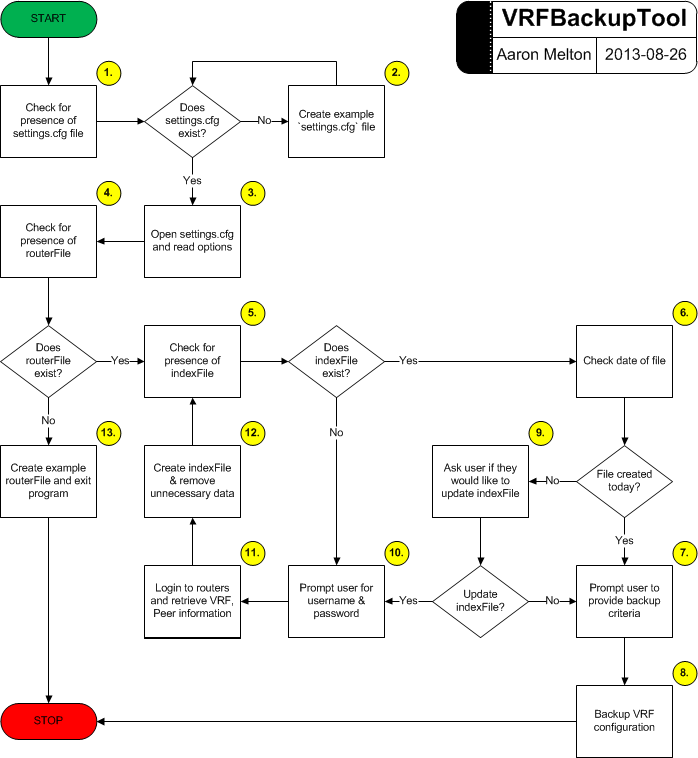
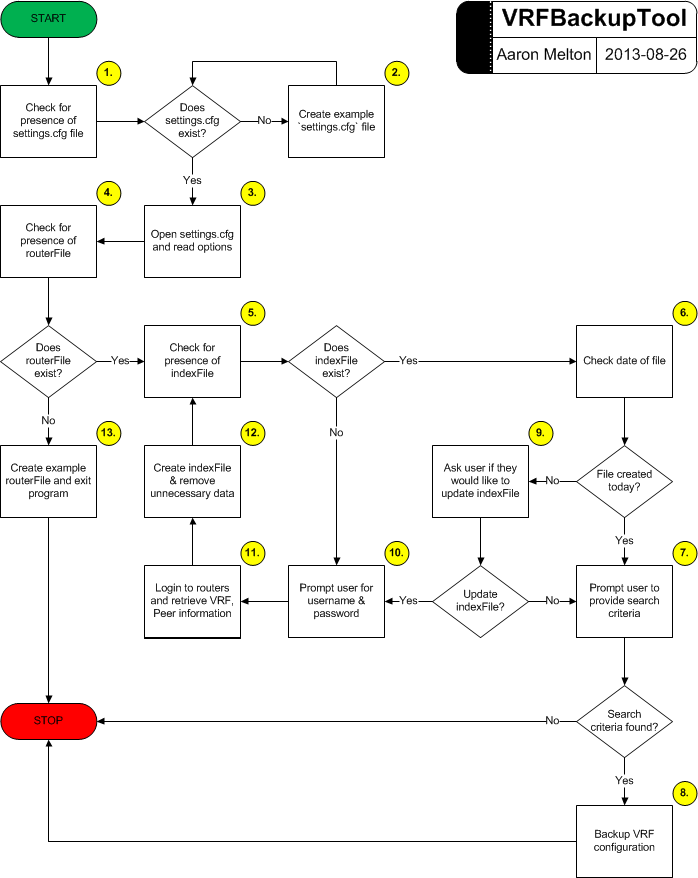
VRFBackupTool v0.0.5-alpha (2013-08-26)
## VRFBackupTool v0.0.5-alpha (2013-08-26) ##
* Created README.md, VRFBackupTool.png
* Updated code to remove unused modules and add additional comments.

diff --git a/README.md b/README.md
@@ -62,13 +62,20 @@ Exscript module [https://github.com/knipknap/exscript/](https://github.com/knipk
    the indexFile.
    * If the file was created today, the application will proceed to Step 7.
    * If the file was not created today, the application will proceed to Step 9.
-7. The application will ask the user to provide the backup criteria; Either
-   the VRF name or Peer IP Address of the VPN tunnel to locate.  Continue to
-   Step 8.
-8. The application will open the indexFile as read-only and search through the
-   file.  If any values are found, the application will log into each router
-   and back up the VRF configuration for each value found.  The application 
-   will then close the indexFile and exit (END).
+7. The application will ask the user to provide the search criteria; Either
+   the VRF name or Peer IP Address of the VPN tunnel to locate.  The application 
+   will open the indexFile as read-only and search through the file.
+   * If the search criteria was not found, exit program (END)
+   * If the search criteria was found, continue to Step 8.
+8. The application will ask the user for their username and password, should
+   these values not be pre-configured in the `settings.cfg` file and log into
+   each router containing the search string.  Using the
+   `show running-config | section <VRFName>` and 
+   `show running-config | section SMVPN <RouerDistinguisher>` commands, the
+   application will backup the VRF configuration to a file in a directory
+   specified in `settings.cfg`.  Should this filename already exist, the
+   application will continue to append an integer to the end of the filename
+   until it is no longer attmepting to overwrite an existing file.
 9. The application will ask the user if they would like to update the indexFile.
    * If the user does not want to update the indexFile, the application will 
    proceed to Step 7.
